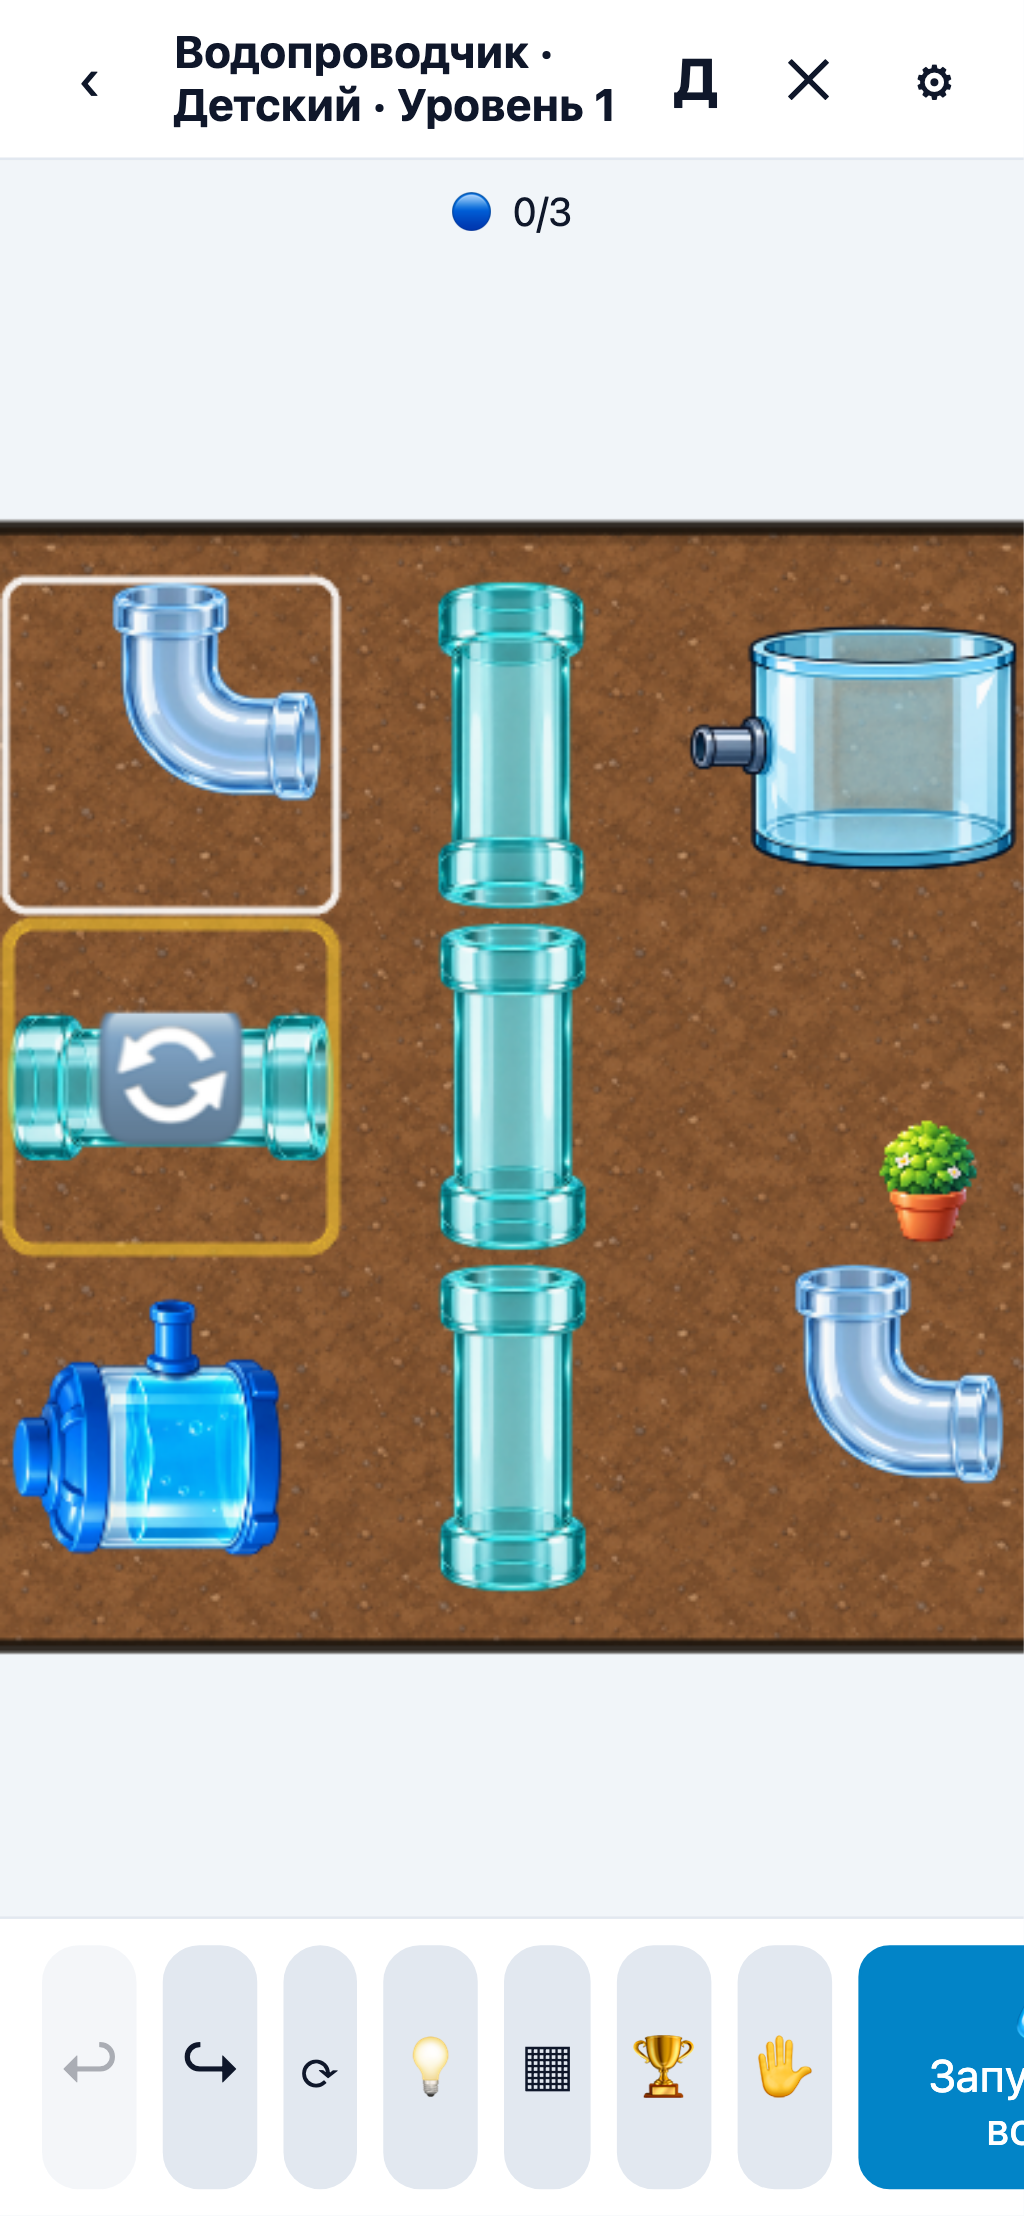
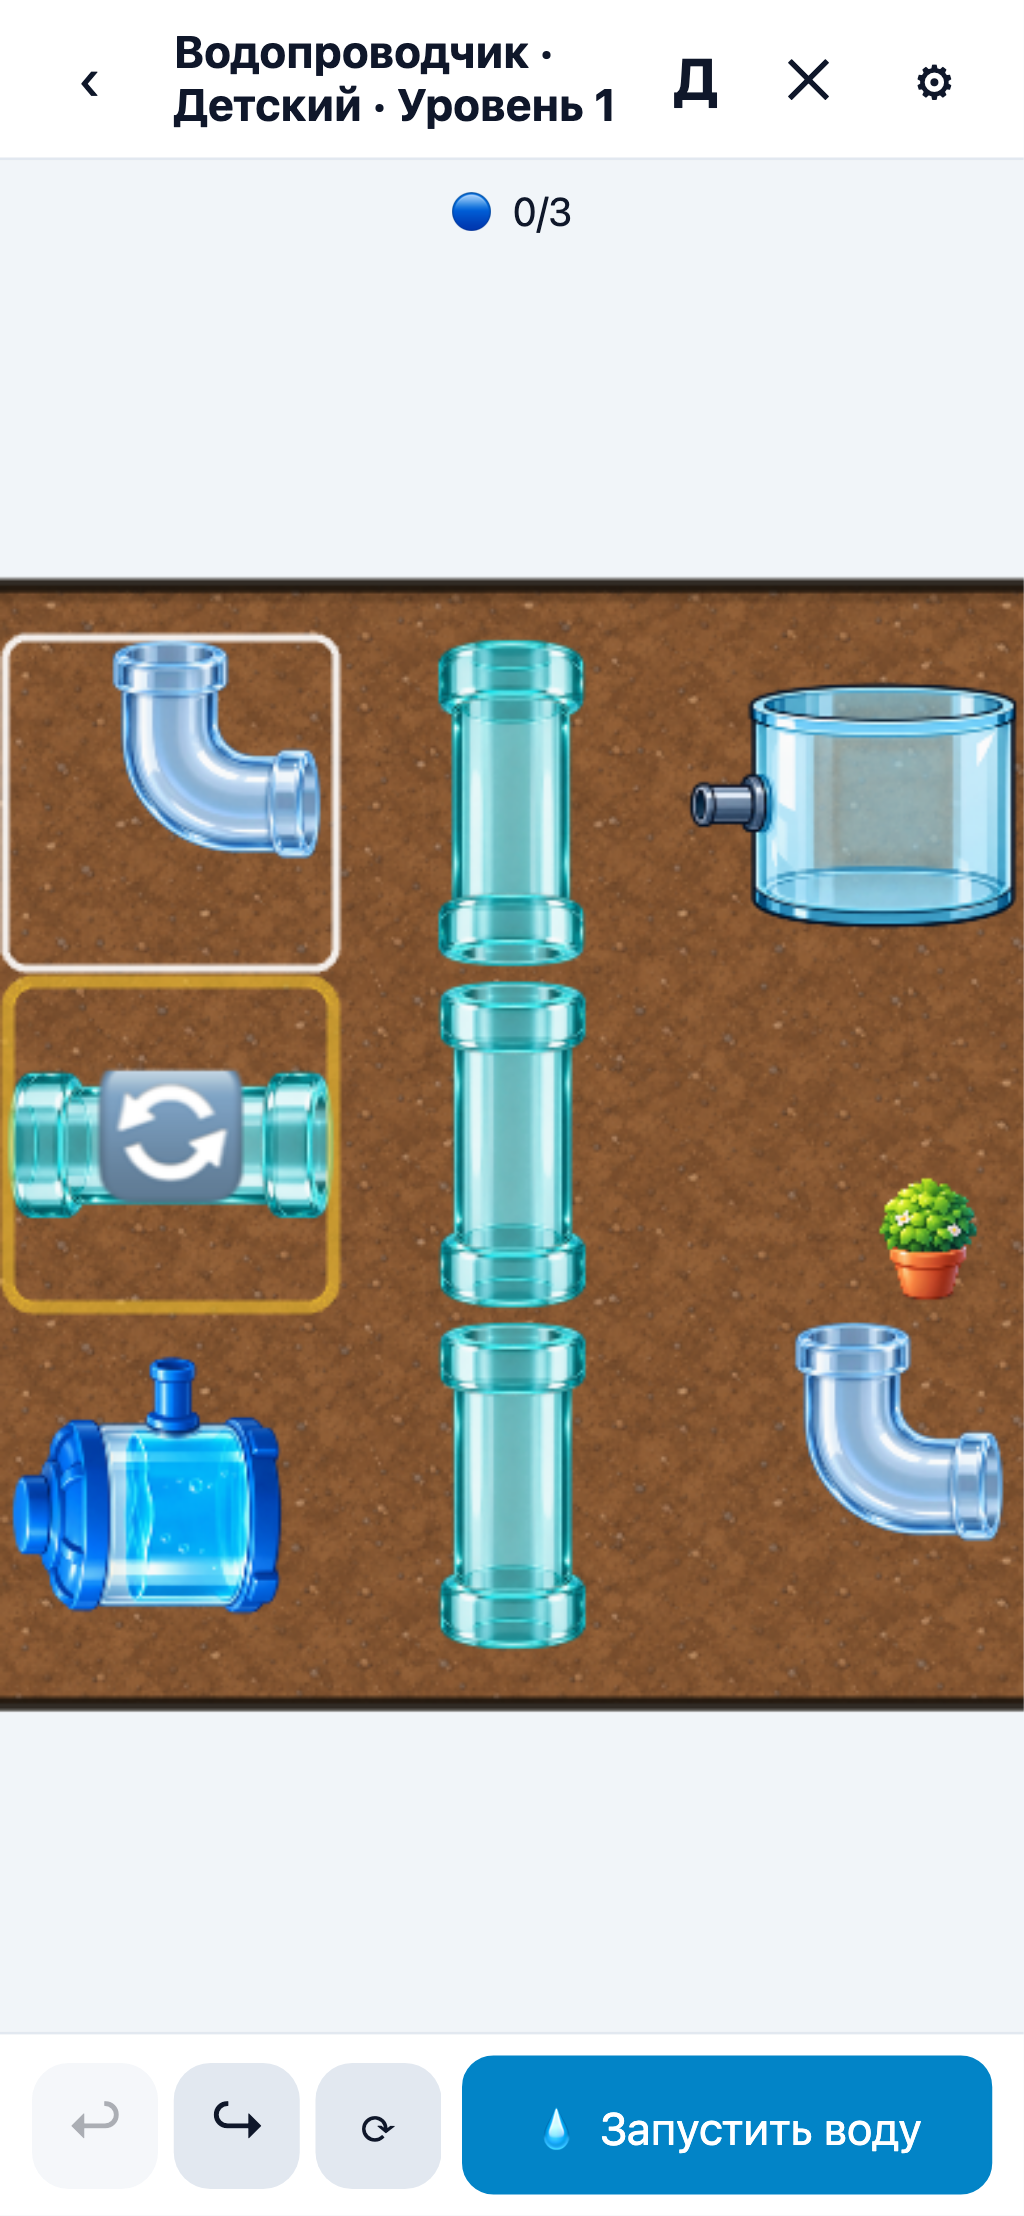
fix(plumber): responsive bottom bar so the primary action is never clipped (playtest Round 2 P4)
- wrap secondary actions in a scrollable strip; fix/run/continue stays visible
- compact 70px bar (was 114px), 48x48 targets, safe-area padding
- wide screens keep the single centered row
- e2e: bottombar fits 320/375/390/430 and levels stay reachable

Changed region(s): [[0.0, 0.218, 1.0, 0.7784], [0.1562, 0.8718, 1.0, 0.9964], [0.0625, 0.903, 0.125, 0.9653]]

diff --git a/tests/e2e/plumber.spec.ts b/tests/e2e/plumber.spec.ts
@@ -153,3 +153,41 @@ test('plumber: works fully offline from precache', async ({ page, context }) => 
   expect(await call0<string>(page, 'phase')).toBe('PREPARING');
   await context.setOffline(false);
 });
+
+test('plumber P4: bottom bar fits narrow phones without clipping the primary action', async ({ page }) => {
+  await page.goto('/');
+  await page.locator('.game-card', { hasText: 'Водопроводчик' }).locator('.btn.primary').click();
+  await waitPlumber(page);
+  await waitScene(page);
+  for (const width of [320, 375, 390, 430]) {
+    await page.setViewportSize({ width, height: 800 });
+    await page.waitForTimeout(150);
+    const m = await page.evaluate(() => {
+      const start = document.querySelector('.bottombar .btn.primary.big') as HTMLElement;
+      const bar = document.querySelector('.bottombar') as HTMLElement;
+      const sb = start.getBoundingClientRect();
+      const bb = bar.getBoundingClientRect();
+      const targets = [...document.querySelectorAll('.bottombar .action-btn')]
+        .map((b) => b.getBoundingClientRect())
+        .filter((r) => r.height > 0)
+        .map((r) => Math.min(r.width, r.height));
+      return {
+        startRight: sb.right,
+        startLeft: sb.left,
+        barLeft: bb.left,
+        barRight: bb.right,
+        vw: window.innerWidth,
+        minTarget: targets.length ? Math.min(...targets) : 0,
+      };
+    });
+    expect(m.startLeft, `start button left at ${width}px`).toBeGreaterThanOrEqual(-0.5);
+    expect(m.startRight, `start button right at ${width}px`).toBeLessThanOrEqual(m.vw + 0.5);
+    expect(m.barLeft, `bar left at ${width}px`).toBeGreaterThanOrEqual(-0.5);
+    expect(m.barRight, `bar right at ${width}px`).toBeLessThanOrEqual(m.vw + 0.5);
+    expect(m.minTarget, `touch target at ${width}px`).toBeGreaterThanOrEqual(44);
+  }
+  // Secondary actions stay reachable on a narrow screen (auto-scrolls into view).
+  await page.setViewportSize({ width: 320, height: 800 });
+  await page.locator('.bottombar .action-btn').nth(4).click();
+  await expect(page.locator('.modal-overlay.levels .level-grid')).toBeVisible();
+});

diff --git a/src/styles/app.css b/src/styles/app.css
@@ -112,16 +112,33 @@ button { font: inherit; color: inherit; }
 .field { position: absolute; inset: 0; touch-action: none; }
 .field canvas { display: block; }
 .bottombar {
-  min-height: calc(var(--bar-h) + 10px); display: flex; justify-content: space-around;
-  gap: 10px; padding: 10px 16px calc(10px + env(safe-area-inset-bottom)) 16px;
+  display: flex; align-items: center; gap: 8px;
+  padding: 8px 12px calc(8px + env(safe-area-inset-bottom)) 12px;
   background: var(--surface); border-top: 1px solid var(--surface-2);
 }
+/* Secondary actions: one compact row that scrolls instead of clipping. */
+.bottom-actions {
+  display: flex; gap: 6px; flex: 1 1 auto; min-width: 0;
+  overflow-x: auto; overflow-y: hidden;
+  scrollbar-width: none; -webkit-overflow-scrolling: touch;
+}
+.bottom-actions::-webkit-scrollbar { display: none; }
 .action-btn {
-  flex: 1; max-width: 220px; min-height: 52px; font-size: 24px;
+  flex: 0 0 auto; width: 48px; min-width: 48px; min-height: 48px; font-size: 22px;
   border: none; border-radius: var(--radius); background: var(--surface-2); cursor: pointer;
 }
 .action-btn:disabled { opacity: .35; cursor: default; }
 .action-btn:not(:disabled):active { transform: scale(.96); }
+.start-btn {
+  flex: 0 0 auto; min-width: 96px; min-height: 52px; font-size: 17px;
+  padding-left: 18px; padding-right: 18px; white-space: nowrap;
+}
+@media (min-width: 720px) {
+  .bottombar { justify-content: center; gap: 10px; padding-top: 10px; }
+  .bottom-actions { flex: 1 1 auto; justify-content: center; gap: 10px; overflow: visible; }
+  .action-btn { width: auto; flex: 1 1 0; max-width: 200px; min-height: 52px; }
+  .start-btn { flex: 1 1 0; max-width: 220px; }
+}
 
 /* Buttons, dialogs */
 .btn {

diff --git a/src/games/plumber/game.ts b/src/games/plumber/game.ts
@@ -155,6 +155,7 @@ export class PlumberGame implements GameHandle {
     this.fieldEl.id = 'plumber-field';
     fieldWrap.appendChild(this.fieldEl);
     const bottom = el('nav', 'bottombar');
+    const actions = el('div', 'bottom-actions');
     this.undoBtn = button('↩', 'action-btn', () => this.onUndo(), t('game.undo'));
     const redoBtn = button('↪', 'action-btn', () => this.onRedo(), t('plumber.redo'));
     const restartBtn = button('⟳', 'action-btn', () => this.onRestart(), t('game.restart'));
@@ -164,7 +165,11 @@ export class PlumberGame implements GameHandle {
     this.moveBtn = button('✋', 'action-btn', () => this.toggleMoveMode(), t('plumber.moveMode'));
     this.valveBtn = button('🔧', 'action-btn', () => this.toggleValveMode(), t('plumber.valveMode'));
     this.startBtn = button('', 'btn primary big', () => this.onStartPause(), t('plumber.start'));
-    bottom.append(this.undoBtn, redoBtn, restartBtn, hintBtn, levelsBtn, albumBtn, this.moveBtn, this.valveBtn, this.startBtn);
+    this.startBtn.classList.add('start-btn');
+    // §P4: secondary actions live in a scrollable strip so the primary
+    // fix/run/continue button is never clipped on narrow phones.
+    actions.append(this.undoBtn, redoBtn, restartBtn, hintBtn, levelsBtn, albumBtn, this.moveBtn, this.valveBtn);
+    bottom.append(actions, this.startBtn);
     this.bannerEl = el('div', 'plumber-banner');
     this.bannerText = el('div', 'banner-text', '');
     this.bannerActions = el('div', 'banner-actions');
